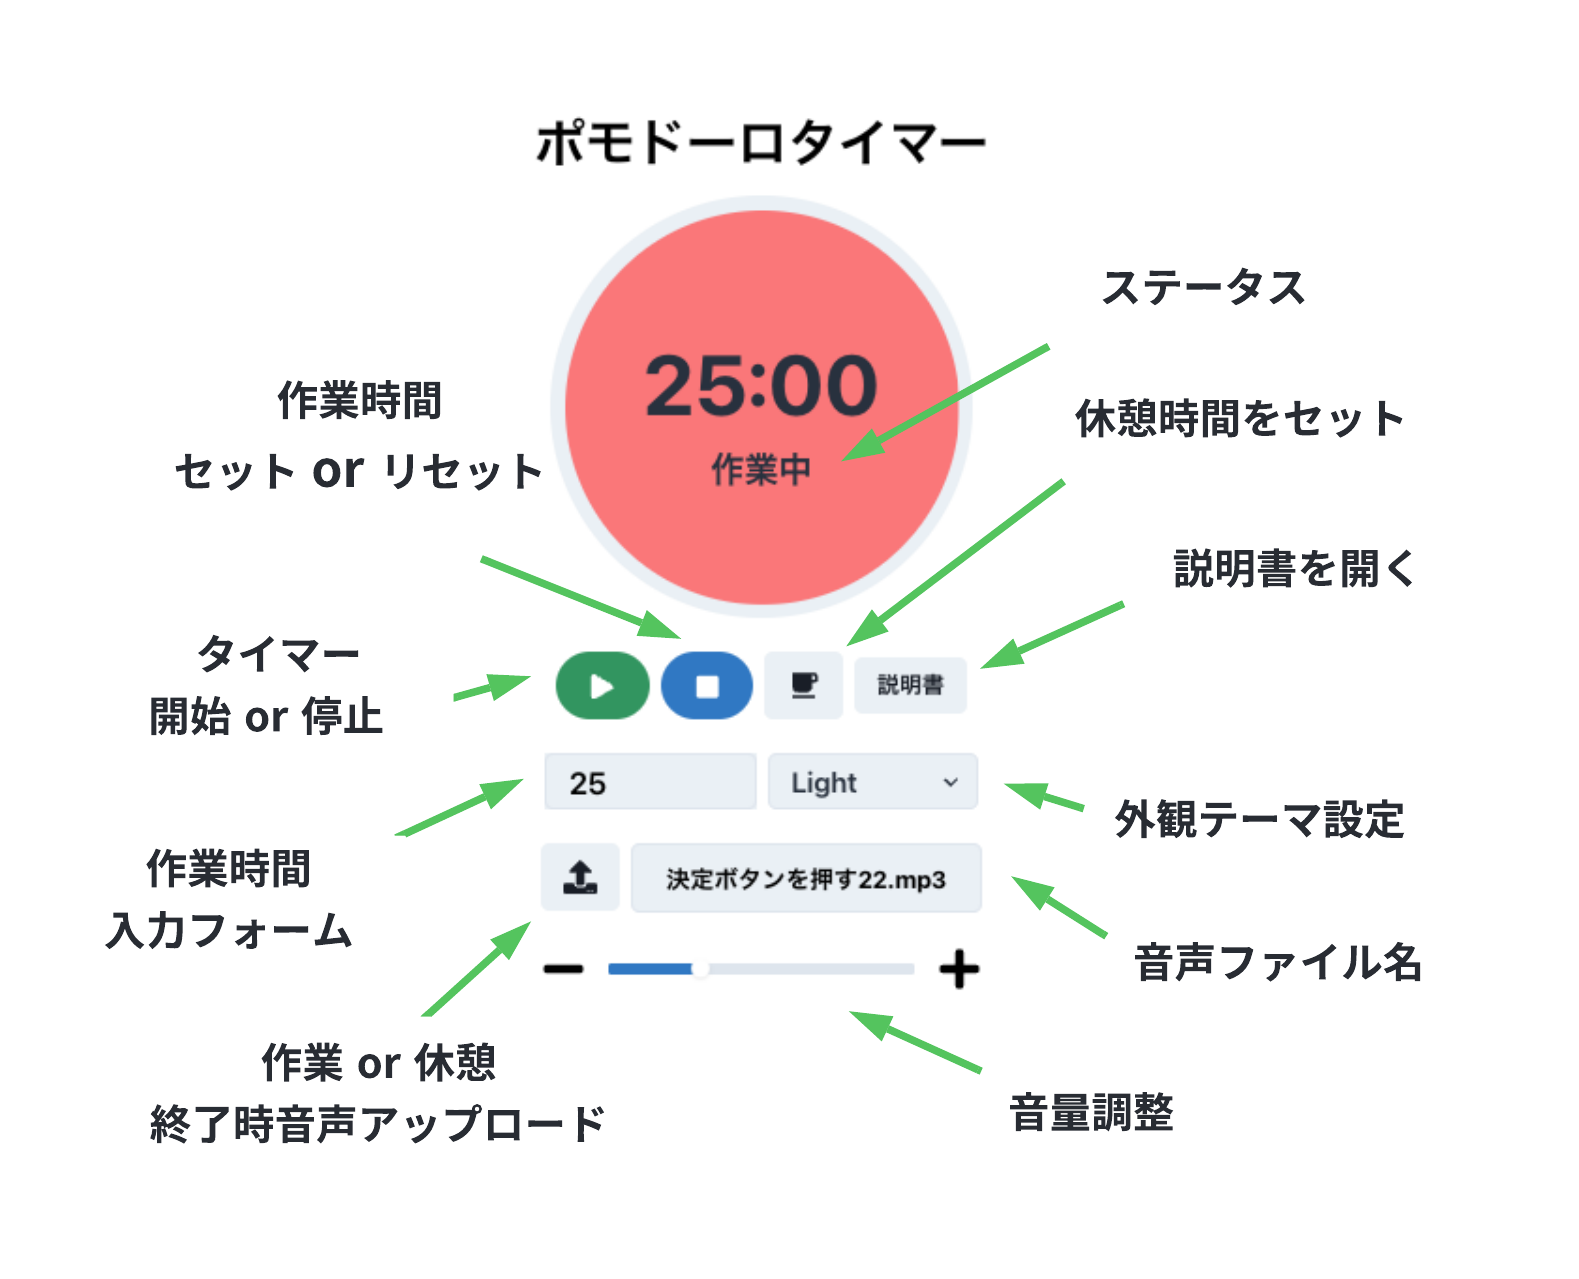
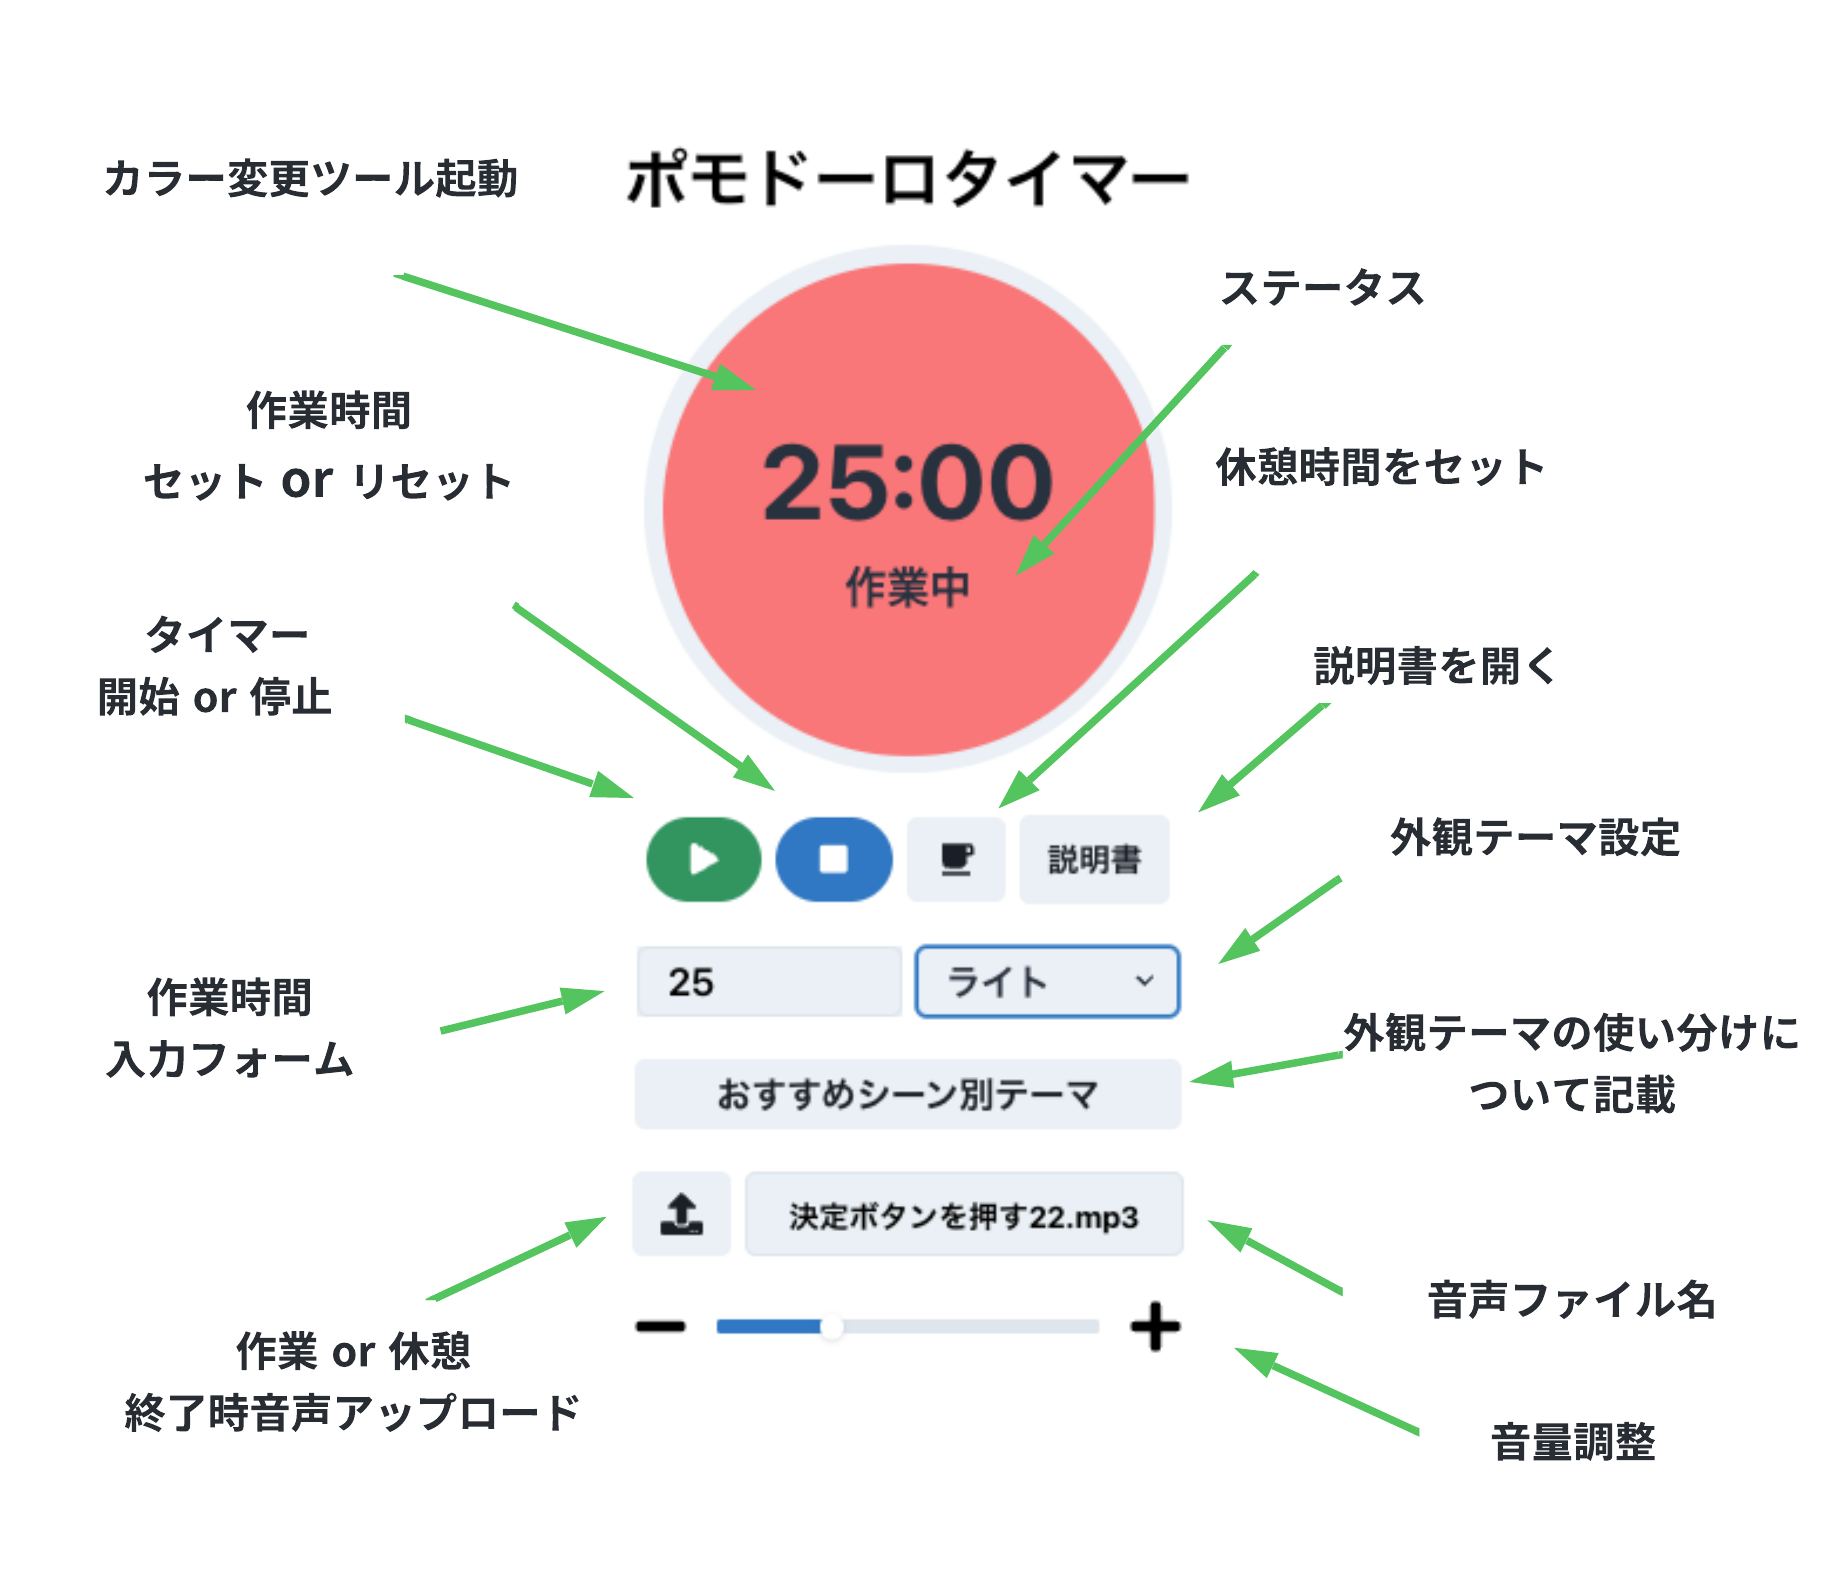
説明書追加,カラーピッカー追加など

diff --git a/src/PomodoroTimer.tsx b/src/PomodoroTimer.tsx
@@ -12,8 +12,6 @@ import {
   Box,
   Input,
   Select,
-  Center,
-  useTheme,
   NumberInput,
   NumberInputField,
   Slider,
@@ -26,11 +24,13 @@ import {
   ModalBody,
   ModalCloseButton,
   ModalContent,
+  ModalHeader,
+  ModalFooter,
 } from '@chakra-ui/react';
 import { FaPlay, FaPause, FaSquare, FaUpload,FaPlus,FaMinus } from 'react-icons/fa';
 import { MdFreeBreakfast } from "react-icons/md";
 import { lightTheme, darkTheme, retroTheme, sunsetOradientTheme, oceanGradientTheme, yellowGradientTheme, greenGradientTheme, purpleGradientTheme, skyBlueGradientTheme } from './theme/theme';
-import { SiEnterprisedb } from 'react-icons/si';
+import { SketchPicker, ColorResult } from 'react-color';
 
 interface PomodoroTimerProps {
   setTheme: (theme: any) => void;
@@ -45,19 +45,25 @@ const PomodoroTimer: React.FC<PomodoroTimerProps> = ({ setTheme }) => {
   const [currentTheme, setCurrentTheme] = useState('light');
   const audioRef = useRef<HTMLAudioElement | null>(null);
   const [notificationShown, setNotificationShown] = useState(false);
+  const [colorPick, setColorPick] = useState('red.300');
+  const [pickerVisible, setPickerVisible] = useState(false);
+  const pickerRef = useRef<HTMLDivElement>(null);
 
   const [volume, setVolume] = useState(30);
-  // const [workTime, setWorkTime] = useState(25 * 60);
-  const [breakTime, setBreakTime] = useState(300);
+
   const [isBreak, setIsBreak] = useState(false);
   const [defaultAudio, setDefaultAudio] = useState<HTMLAudioElement | null>(null);
-  const [isModalOpen, setIsModalOpen] = useState(false);
+  const [isModalOpen1, setIsModalOpen1] = useState(false);
+  const [isModalOpen2, setIsModalOpen2] = useState(false);
 
-  // const theme = useTheme();
+  const [scrollBehavior] = React.useState<'inside' | 'outside'>('inside')
+
+
   // Chakra UIのテーマ設定
   const bgColor = useColorModeValue('gray.100', 'gray.700');
   const textColor = useColorModeValue('gray.700', 'white');
-  const progressColor = useColorModeValue('red.300', 'red.300');
+
+  const progressColor = colorPick;
 
   const requestRef = useRef<number>();
   const previousTimeRef = useRef<number>();
@@ -74,7 +80,7 @@ const formatTime = (time: number) => {
 // お知らせの表示と音声の再生
 const showNotification = useCallback(() => {
   toast.success(`${isBreak ? '休憩' : '作業' }時間が終了しました。`, {
-    position: 'top-right',
+    position: 'top-center',
     autoClose: 5000,
     hideProgressBar: false,
     closeOnClick: true,
@@ -171,6 +177,7 @@ useEffect(() => {
     };
   }, [animate]);
 
+  // 通知音声アップロード
   const handleSoundUpload = (e: React.ChangeEvent<HTMLInputElement>) => {
     const file = e.target.files?.[0];
     if (file) {
@@ -180,6 +187,7 @@ useEffect(() => {
     }
   };
 
+  // ボリューム設定
   useEffect(() => {
     if (audioRef.current) {
       audioRef.current.volume = volume / 100;
@@ -194,6 +202,7 @@ useEffect(() => {
     setDefaultAudio(audio);
   }, []);
 
+  // 音声呼び出し
   const playSound = useCallback(() => {
     const audioToPlay = customSound ? audioRef.current : defaultAudio;
     if (audioToPlay instanceof HTMLAudioElement) {
@@ -207,13 +216,10 @@ useEffect(() => {
     }
   }, [customSound, volume, defaultAudio]);
 
-
-
+  // タイマー動作中か判定
   const toggleTimer = () => {
     setIsActive(!isActive);
   };
-
-
 
   // 音量を小さくする
   const handleMinus = () => {
@@ -225,20 +231,62 @@ useEffect(() => {
     setVolume((prev) => Math.min(prev + 10, 100));
   };
 
-  const onClose = () => {
-    setIsModalOpen(false);
+  // カラーピッカー起動とカラー設定
+  const handleChangeComplete = (color: ColorResult) => {
+    setColorPick(color.hex);
+  };
+
+  // カラーピッカーを閉じる
+  const handlePickerClose = (event: React.MouseEvent<HTMLButtonElement>) => {
+    event.stopPropagation();
+    setPickerVisible(false);
+  };
+
+  useEffect(() => {
+    const handleClickOutside = (event: MouseEvent) => {
+      if (pickerRef.current && !pickerRef.current.contains(event.target as Node)) {
+        setPickerVisible(false);
+      }
+    };
+
+    document.addEventListener('mousedown', handleClickOutside);
+
+    return () => {
+      document.removeEventListener('mousedown', handleClickOutside);
+    };
+  }, [pickerRef]);
+
+  // 説明書モーダル閉じる
+  const onClose1 = () => {
+    setIsModalOpen1(false);
+  };
+
+  // おすすめシーン別テーマモーダル閉じる
+  const onClose2 = () => {
+    setIsModalOpen2(false);
   };
 
 
   return (
+
     <VStack spacing={6}>
-      <Circle size="300px" bg={bgColor} position="relative" mt={4}>
+      <Circle size="300px" bg={bgColor} position="relative" mt={4} onClick={() => setPickerVisible(true)}>
         <Circle
           size="280px"
           bg={progressColor}
           position="absolute"
-       clipPath={`inset(${100 - (time / maxTime) * 100}% 0 0 0)`}
+          clipPath={`inset(${100 - (time / maxTime) * 100}% 0 0 0)`}
+          _hover={{ cursor: 'pointer' }}
         />
+        {pickerVisible && (
+          <div ref={pickerRef} style={{ position: 'absolute', zIndex: 2, background: 'white', padding: '10px', borderRadius: '8px', marginTop: '500px' }}>
+            <SketchPicker
+              color={colorPick}
+              onChangeComplete={handleChangeComplete}
+              />
+              <Button mt={3} onClick={handlePickerClose} w="100%" _hover={{ bgColor: 'red.300' }}>閉じる</Button>
+          </div>
+        )}
         <Box position="relative" zIndex={1}>
           <Text fontSize="6xl" fontWeight="bold" color={textColor}>
             {formatTime(time)}
@@ -276,16 +324,16 @@ useEffect(() => {
           }}>
           <Icon as={MdFreeBreakfast} boxSize={6}/>
         </Button>
-        <Button onClick={() => setIsModalOpen(true)} h={50}>
+        <Button onClick={() => setIsModalOpen1(true)} h={50}>
           <Text fontSize={18} fontWeight="bold">説明書</Text>
         </Button>
-        <Modal isOpen={isModalOpen} onClose={() => setIsModalOpen(false)} size='lg'>
+        <Modal isOpen={isModalOpen1} onClose={() => setIsModalOpen1(false)} size='lg'>
           <ModalOverlay />
           <ModalContent maxWidth="40vw" maxHeight="80vh">
           <ModalCloseButton fontSize={18}/>
           <ModalBody width="100%" height="100%" display="flex" flexDirection="column">
             <img src="../public/説明書.png"  alt="説明画像" width="100%" height="100%"/>
-            <Button colorScheme='blue' w="50%" mb={6} py={6} onClick={onClose} mx="auto">
+            <Button colorScheme='blue' w="50%" mb={6} py={6} onClick={onClose1} mx="auto">
               <Text fontSize="22" fontWeight="bold">閉じる</Text>
             </Button>
           </ModalBody>
@@ -298,17 +346,64 @@ useEffect(() => {
           <NumberInputField placeholder="分単位で入力" sx={{ '::placeholder': {fontSize: '17px',} }} fontSize={22} fontWeight={600} w={150}/>
         </NumberInput>
         <Select value={currentTheme} onChange={handleThemaChange} bg={bgColor} ml={2} color={textColor} fontSize={20} fontWeight={600} w={150}  placeholder='外観テーマを選択' size="md">
-          <option value='light'>Light</option>
-          <option value='dark'>Dark</option>
-          <option value='retro'>Retro</option>
-          <option value="sunset">Red</option>
-          <option value="ocean">Blue</option>
-          <option value="yellow">Yellow</option>
-          <option value="green">Green</option>
-          <option value="purple">Purple</option>
-          <option value="skyBlue">SkyBlue</option>
+          <option value='light'>ライト</option>
+          <option value='dark'>ダーク</option>
+          <option value='retro'>レトロ</option>
+          <option value="sunset">赤色</option>
+          <option value="ocean">青色</option>
+          <option value="yellow">黄色</option>
+          <option value="green">緑色</option>
+          <option value="purple">紫色</option>
+          <option value="skyBlue">水色</option>
         </Select>
       </Flex>
+
+      <Button onClick={() => {setIsModalOpen2(true)}} w={310} fontSize={20}>
+          おすすめシーン別テーマ
+      </Button>
+
+      <Modal
+        onClose={onClose2}
+        isOpen={isModalOpen2}
+        scrollBehavior={scrollBehavior}
+        size="lg"
+      >
+    <ModalOverlay />
+            <ModalContent maxWidth="60vw" maxHeight="80vh">
+              <ModalHeader textAlign="center" fontSize={25}>シーン別使い分け</ModalHeader>
+              <ModalCloseButton fontSize={18}/>
+              <ModalBody>
+                <Flex color="gray.900" fontSize={20} flexWrap="wrap">
+                {[
+               { "label": "ライト", "value": "開放感、清潔感、未来志向、軽快な印象を与える", "usage": "作業時：明るく集中できる環境を提供。休養時：軽快な気分でリラックスできる。" },
+               { "label": "ダーク", "value": "高級感、落ち着き、シックな印象を与える。神秘的な雰囲気も演出可能", "usage": "作業時：落ち着いて集中できる環境を提供。休養時：静かでリラックスできる空間を演出。" },
+               { "label": "レトロ", "value": "懐かしさ、温かさ、落ち着き、安定感を与える。ノスタルジックな雰囲気も演出可能", "usage": "作業時：安定感のある環境で集中力を高める。休養時：心地よくリラックスできる空間を提供。" },
+               { "label": "赤色", "value": "情熱、興奮、活気、注意を引きやすい。食欲を刺激する効果も", "usage": "作業時：エネルギーと活気を提供し、モチベーションを高める。休養時：過剰な興奮を避けるため控えめに使用。" },
+                { "label": "青色", "value": "冷静、信頼、誠実、広がりを感じさせる。リラックス効果も", "usage": "作業時：冷静で集中力を高める環境を提供。休養時：リラックス効果を促進し、穏やかな空間を演出。" },
+                 { "label": "黄色", "value": "明るさ、楽しさ、好奇心、注意を引きやすい。暖かさも感じさせる", "usage": "作業時：創造力やアイデアを活性化。休養時：楽しい雰囲気で気分を明るく保つ。" },
+                 { "label": "緑色", "value": "自然、癒し、安らぎ、調和。集中力を高める効果も", "usage": "作業時：安らぎと集中力を両立させる環境を提供。休養時：リラックス効果を高め、自然に囲まれたような安らぎを演出。" },
+                 { "label": "水色", "value": "爽やかさ、清潔感、広がり、涼しげな印象を与える。穏やかな気持ちにさせる", "usage": "作業時：爽やかでクリアな思考を促進。休養時：清潔感とリラックス効果を高め、心を落ち着かせる。" }
+                ].map(({ label, value, usage }, index) => (
+                  <Flex key={index} width="100%" mb={6}>
+                    <Text fontWeight="bold" mr={2} width="120px" whiteSpace="nowrap">{label}：</Text>
+                    <Flex direction="column" width="90%" fontSize={22}>
+                      <Text>{value}</Text>
+                      <Text>{usage}</Text>
+                    </Flex>
+
+                  </Flex>
+                ))}
+              </Flex>
+
+              </ModalBody>
+              <ModalFooter mx="auto">
+                <Button onClick={onClose2} colorScheme='green' py={6} px={8}>
+                 <Text fontSize="22" fontWeight="bold">閉じる</Text>
+                </Button>
+              </ModalFooter>
+            </ModalContent>
+          </Modal>
+
       <Flex >
       <Button as="label" htmlFor="sound-upload" cursor="pointer" h={12}>
           <Icon as={FaUpload}  boxSize={6}/>
@@ -334,6 +429,9 @@ useEffect(() => {
         </Box>
         {customSound && <audio ref={audioRef} src={customSound} />}
       </Flex>
+
+
+
       <Flex alignItems="center" width="100%">
           <Icon  onClick={handleMinus} as={FaMinus} boxSize={8} mr={4} flexShrink={0} cursor='pointer' />
 

diff --git a/src/App.tsx b/src/App.tsx
@@ -1,10 +1,9 @@
-// import { useState } from 'react';
-import React, { useEffect, useState } from 'react';
+import  { useState } from 'react';
 import './App.css';
 import PomodoroTimer from './PomodoroTimer';
 // import TodoList from './TodoList';
 import { ChakraProvider, Box, Heading, Center } from '@chakra-ui/react';
-import { lightTheme, darkTheme, retroTheme } from './theme/theme';
+import { lightTheme } from './theme/theme';
 
 function App() {
   // const [count, setCount] = useState(0);
